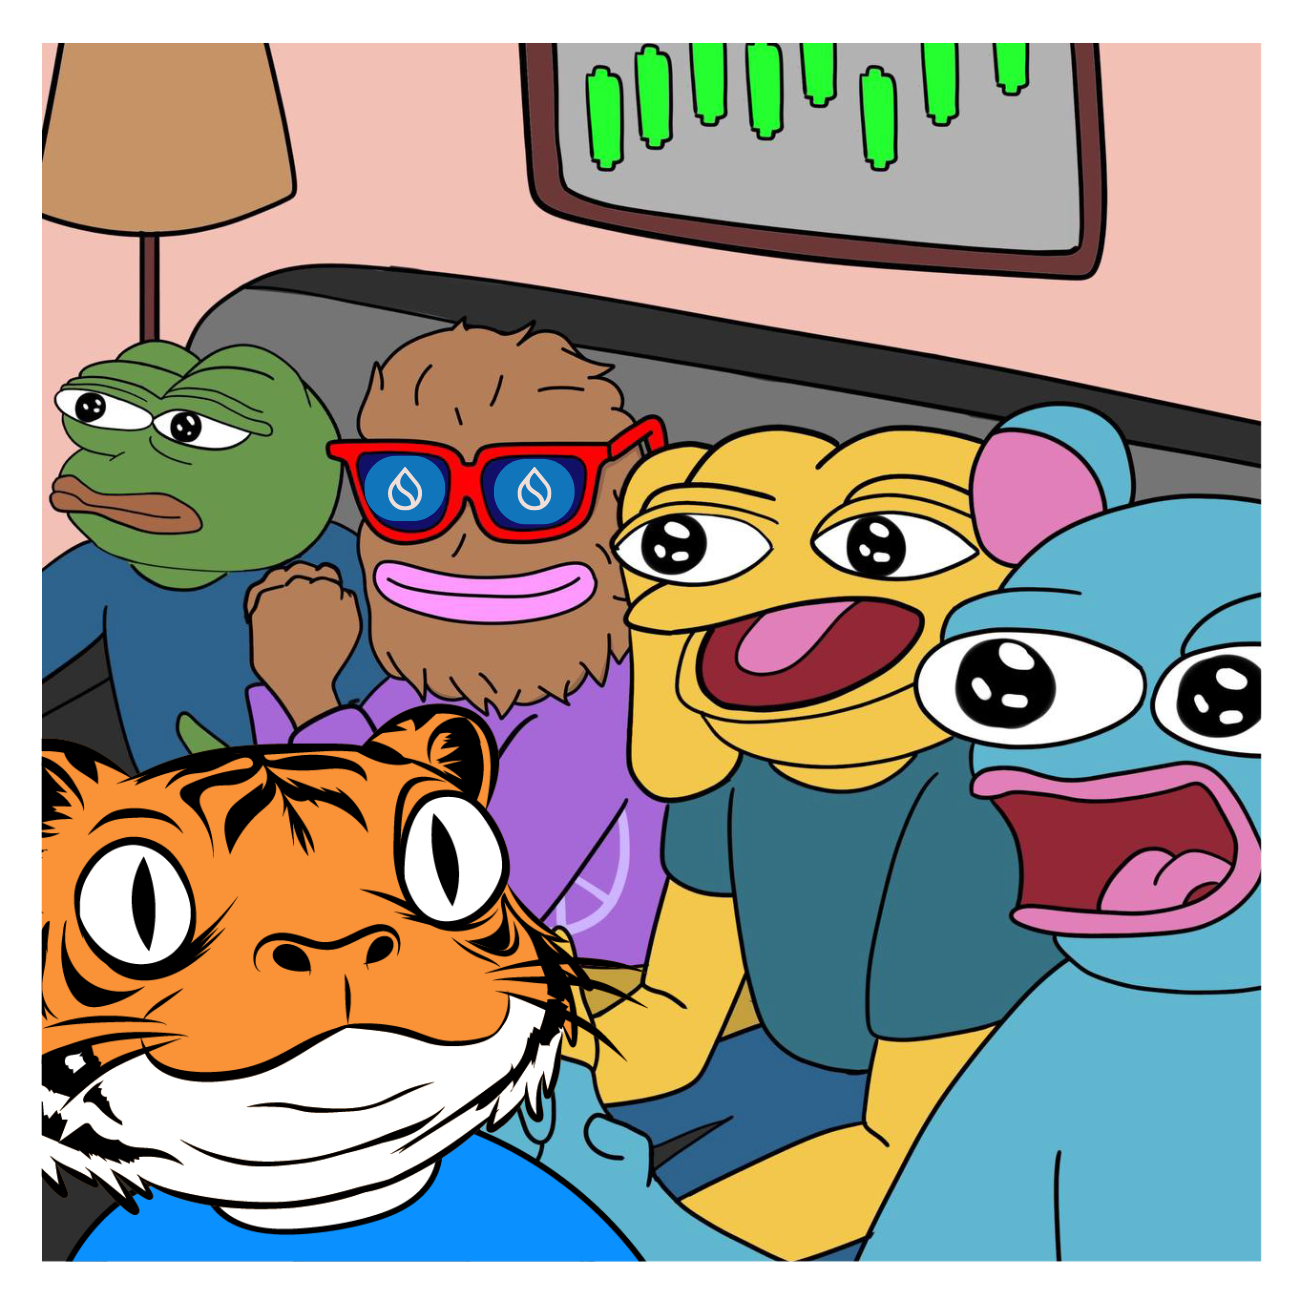
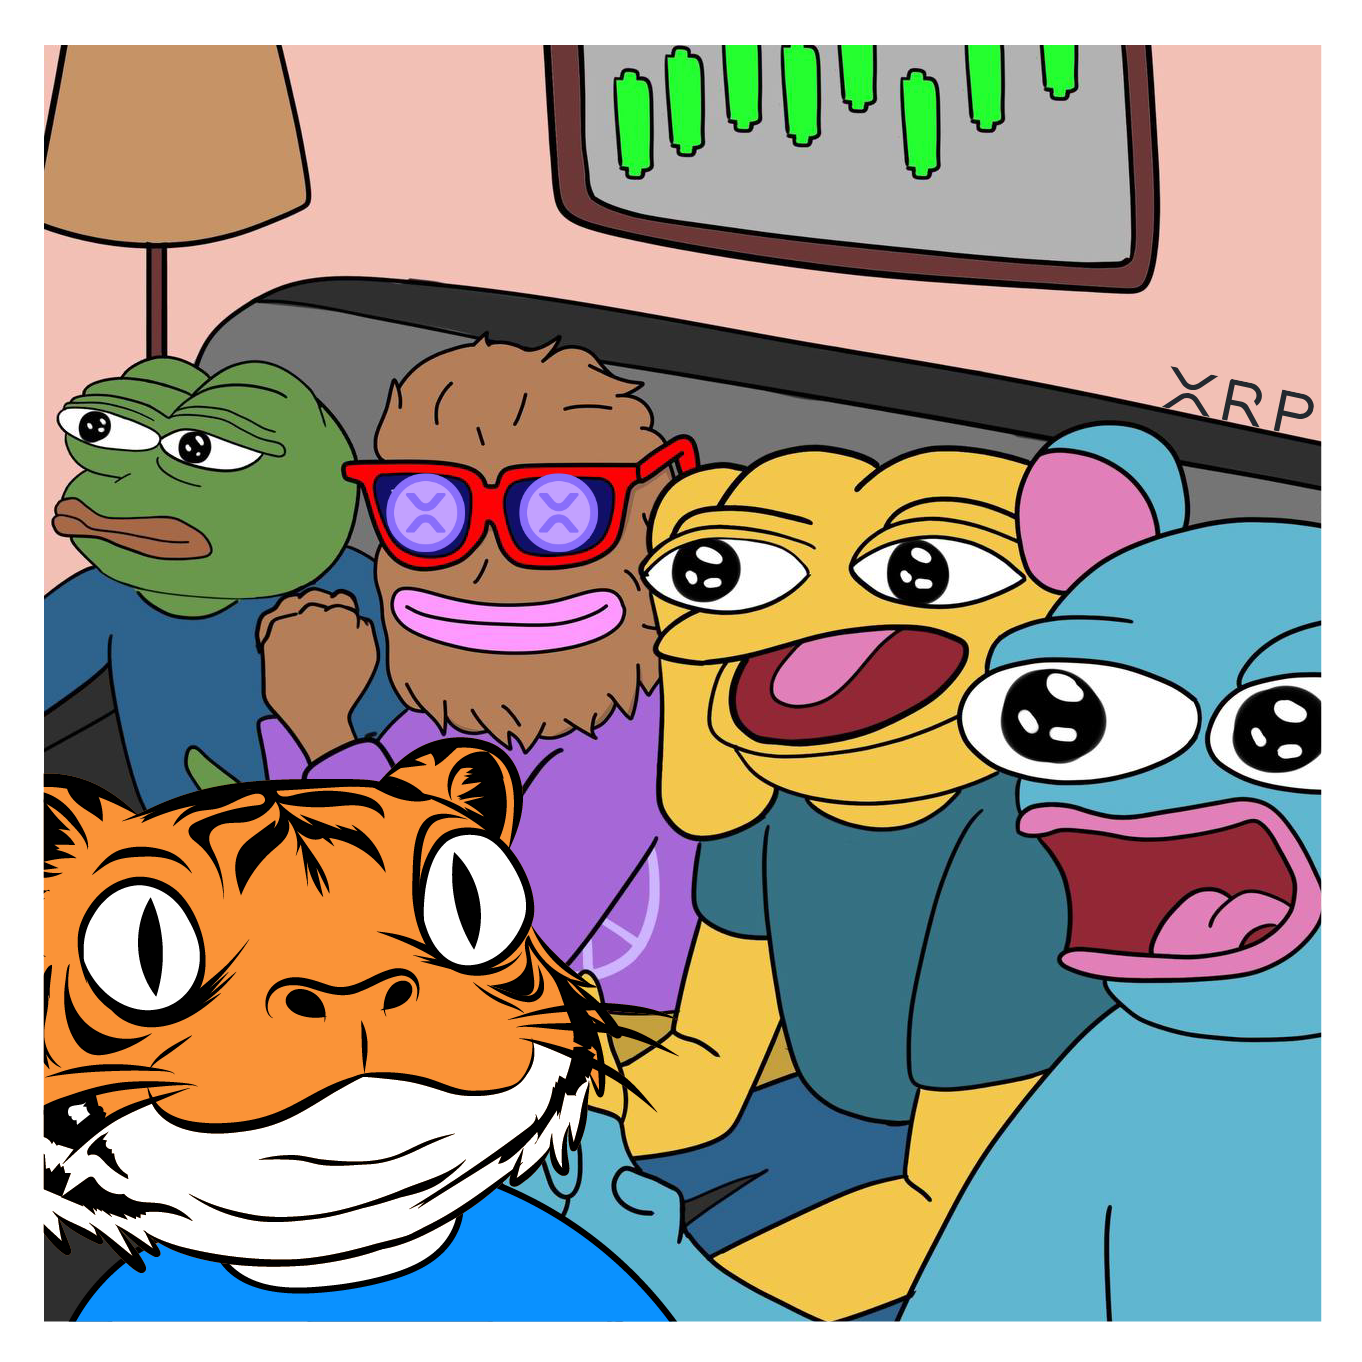
fix

Changed region(s): [[0.3692, 0.3385, 0.4615, 0.4308], [0.8615, 0.2769, 0.9846, 0.3077], [0.2769, 0.3385, 0.3385, 0.4]]

diff --git a/index.html b/index.html
@@ -3,14 +3,11 @@
 
 <head>
 	<meta charset="UTF-8">
-	<title>Igor the Tiger</title>
+	<title>Xigor the Tiger on Xrp</title>
 	<meta name="viewport" content="width=device-width, initial-scale=1">
 	<meta name="robots" content="max-image-preview:large">
-	<title>Igor the Tiger</title>
-	<link rel="alternate" type="application/rss+xml" title="Igor the Tiger &raquo; Feed"
-		href="https://igortiger.fun/index.php/feed/">
-	<link rel="alternate" type="application/rss+xml" title="Igor the Tiger &raquo; Comments Feed"
-		href="https://igortiger.fun/index.php/comments/feed/">
+
+
 	<script>
 		window._wpemojiSettings = { "baseUrl": "https:\/\/s.w.org\/images\/core\/emoji\/15.0.3\/72x72\/", "ext": ".png", "svgUrl": "https:\/\/s.w.org\/images\/core\/emoji\/15.0.3\/svg\/", "svgExt": ".svg", "source": { "concatemoji": "https:\/\/igortiger.fun\/wp-includes\/js\/wp-emoji-release.min.js?ver=6.6.2" } };
 		/*! This file is auto-generated */
@@ -1175,7 +1172,7 @@
 	<link rel="icon" href="images/cropped-IGOR-01-192x192.png" sizes="192x192">
 	<link rel="apple-touch-icon" href="images/cropped-IGOR-01-180x180.png">
 	<meta name="msapplication-TileImage"
-		content="https://igortiger.fun/wp-content/uploads/2024/10/cropped-IGOR-01-270x270.png">
+		content="https://igortiger.fun/wp-content/uploads/2024/10/cropped-XIGOR-01-270x270.png">
 	<meta name="viewport" content="width=device-width, initial-scale=1.0, viewport-fit=cover">
 </head>
 
@@ -1249,7 +1246,7 @@
 							<div class="elementor-widget-container">
 								<div class="elementor-button-wrapper">
 									<a class="elementor-button elementor-button-link elementor-size-sm"
-										href="https://movepump.com/token/0x900b867c3c4c17abe26957083a27d7bb67f0d5d5111f75c5c9647bef5c4db3eb::igor::IGOR">
+										href="https://firstledger.net/">
 										<span class="elementor-button-content-wrapper">
 											<span class="elementor-button-text">BUY</span>
 										</span>
@@ -1573,7 +1570,7 @@
 								<div class="elementor-social-icons-wrapper elementor-grid">
 									<span class="elementor-grid-item">
 										<a class="elementor-icon elementor-social-icon elementor-social-icon-x-twitter elementor-animation-float elementor-repeater-item-ea3614b"
-											href="https://x.com/IgorTiger_Sui" target="_blank">
+											href="https://x.com/XIGOR_XRPL" target="_blank">
 											<span class="elementor-screen-only">X-twitter</span>
 											<svg class="e-font-icon-svg e-fab-x-twitter" viewBox="0 0 512 512"
 												xmlns="http://www.w3.org/2000/svg">
@@ -1583,7 +1580,7 @@
 									</span>
 									<span class="elementor-grid-item">
 										<a class="elementor-icon elementor-social-icon elementor-social-icon-telegram-plane elementor-animation-float elementor-repeater-item-c9fb6c2"
-											href="https://t.me/IgorTiger_Portal" target="_blank">
+											href="https://t.me/XigorXRPL_Portal" target="_blank">
 											<span class="elementor-screen-only">Telegram-plane</span>
 											<svg class="e-font-icon-svg e-fab-telegram-plane" viewBox="0 0 448 512"
 												xmlns="http://www.w3.org/2000/svg">
@@ -1688,7 +1685,7 @@
 								data-id="fc3ea0c" data-element_type="widget" data-widget_type="heading.default">
 								<div class="elementor-widget-container">
 									<h2 class="elementor-heading-title elementor-size-default">
-										0x900b867c3c..5d5111f75c5c9647bef5c4db3eb::igor::IGOR
+										TBA
 									</h2>
 								</div>
 							</div>
@@ -1713,7 +1710,7 @@
 												</svg><span class="ctc-button-text">COPY</span> </button>
 										</div>
 										<textarea selection-target class="ctc-copy-content"
-											style="display: none;">CA : 0x900b867c3c4c17abe26957083a27d7bb67f0d5d5111f75c5c9647bef5c4db3eb::igor::IGOR</textarea>
+											style="display: none;">CA : TBA</textarea>
 									</div>
 								</div>
 							</div>
@@ -1800,7 +1797,7 @@
 						<div class="elementor-element elementor-element-ae8c3eb elementor-widget elementor-widget-heading"
 							data-id="ae8c3eb" data-element_type="widget" data-widget_type="heading.default">
 							<div class="elementor-widget-container">
-								<h2 class="elementor-heading-title elementor-size-default">Pepe and Igor were close
+								<h2 class="elementor-heading-title elementor-size-default">Pepe and Xigor were close
 									friends who always stuck together. However, when they embarked on their separate
 									journeys to pursue their dreams, they had to part ways. Despite the distance, they
 									promised to support each other and meet again in the future.</h2>
@@ -1849,7 +1846,7 @@
 							<div class="elementor-element elementor-element-738ad36 elementor-widget elementor-widget-heading"
 								data-id="738ad36" data-element_type="widget" data-widget_type="heading.default">
 								<div class="elementor-widget-container">
-									<h2 class="elementor-heading-title elementor-size-default">Pepe and Igor's Reunion
+									<h2 class="elementor-heading-title elementor-size-default">Pepe and Xigor's Reunion
 									</h2>
 								</div>
 							</div>
@@ -1857,7 +1854,7 @@
 								data-id="e50ac57" data-element_type="widget" data-widget_type="heading.default">
 								<div class="elementor-widget-container">
 									<h2 class="elementor-heading-title elementor-size-default">After so much time apart,
-										Pepe and Igor finally reunited. They had both followed their own paths,
+										Pepe and Xigor finally reunited. They had both followed their own paths,
 										overcoming challenges and reaching their dreams. As they stood face to face, a
 										brief silence fell, only to be broken by warm laughter. Memories of their past
 										flooded back, reminding them how strong their bond of friendship remained.
@@ -1939,7 +1936,7 @@
 								<div class="elementor-element elementor-element-a902e08 elementor-widget elementor-widget-heading"
 									data-id="a902e08" data-element_type="widget" data-widget_type="heading.default">
 									<div class="elementor-widget-container">
-										<h2 class="elementor-heading-title elementor-size-default">10 BILLION<br>SUPPLY
+										<h2 class="elementor-heading-title elementor-size-default">100M<br>SUPPLY
 										</h2>
 									</div>
 								</div>
@@ -1963,7 +1960,7 @@
 								<div class="elementor-element elementor-element-bfe5ba3 elementor-widget elementor-widget-heading"
 									data-id="bfe5ba3" data-element_type="widget" data-widget_type="heading.default">
 									<div class="elementor-widget-container">
-										<h2 class="elementor-heading-title elementor-size-default">$IGOR<br>TICKER</h2>
+										<h2 class="elementor-heading-title elementor-size-default">$XIGOR<br>TICKER</h2>
 									</div>
 								</div>
 							</div>
@@ -2133,8 +2130,8 @@
 								<div class="elementor-element elementor-element-0210efd elementor-widget elementor-widget-heading"
 									data-id="0210efd" data-element_type="widget" data-widget_type="heading.default">
 									<div class="elementor-widget-container">
-										<h2 class="elementor-heading-title elementor-size-default">Download and Set Up
-											Sui Wallet</h2>
+										<h2 class="elementor-heading-title elementor-size-default">Visit First Ledger
+											and create wallet</h2>
 									</div>
 								</div>
 							</div>
@@ -2144,13 +2141,13 @@
 								<div class="elementor-element elementor-element-a518521 elementor-widget elementor-widget-heading"
 									data-id="a518521" data-element_type="widget" data-widget_type="heading.default">
 									<div class="elementor-widget-container">
-										<h2 class="elementor-heading-title elementor-size-default">2. BUY SUI</h2>
+										<h2 class="elementor-heading-title elementor-size-default">2. BUY XRP</h2>
 									</div>
 								</div>
 								<div class="elementor-element elementor-element-9d6ac46 elementor-widget elementor-widget-heading"
 									data-id="9d6ac46" data-element_type="widget" data-widget_type="heading.default">
 									<div class="elementor-widget-container">
-										<h2 class="elementor-heading-title elementor-size-default">You can buy SUI from
+										<h2 class="elementor-heading-title elementor-size-default">You can buy XRP from
 											various cryptocurrency exchanges like Binance, Coinbase, or Kraken.</h2>
 									</div>
 								</div>
@@ -2161,7 +2158,8 @@
 								<div class="elementor-element elementor-element-1691ed2 elementor-widget elementor-widget-heading"
 									data-id="1691ed2" data-element_type="widget" data-widget_type="heading.default">
 									<div class="elementor-widget-container">
-										<h2 class="elementor-heading-title elementor-size-default">3. SWAP SUI FOR $IGOR
+										<h2 class="elementor-heading-title elementor-size-default">3. SWAP XRP FOR
+											$XIGOR
 										</h2>
 									</div>
 								</div>
@@ -2169,8 +2167,8 @@
 									data-id="6446ef5" data-element_type="widget" data-widget_type="heading.default">
 									<div class="elementor-widget-container">
 										<h2 class="elementor-heading-title elementor-size-default">Connect your wallet
-											to the DEX, select SUI as the currency you want to swap, and enter the
-											amount you wish to exchange for $IGOR.</h2>
+											and enter the
+											amount you wish to exchange for $XIGOR.</h2>
 									</div>
 								</div>
 							</div>
@@ -2189,9 +2187,9 @@
 							<div class="elementor-widget-container">
 								<div class="elementor-button-wrapper">
 									<a class="elementor-button elementor-button-link elementor-size-sm"
-										href="https://movepump.com/token/0x900b867c3c4c17abe26957083a27d7bb67f0d5d5111f75c5c9647bef5c4db3eb::igor::IGOR">
+										href="https://firstledger.net/">
 										<span class="elementor-button-content-wrapper">
-											<span class="elementor-button-text">BUY $IGOR NOW</span>
+											<span class="elementor-button-text">BUY $XIGOR NOW</span>
 										</span>
 									</a>
 								</div>
@@ -2217,14 +2215,15 @@
 					<div class="elementor-element elementor-element-3b3205c elementor-widget elementor-widget-heading"
 						data-id="3b3205c" data-element_type="widget" data-widget_type="heading.default">
 						<div class="elementor-widget-container">
-							<h2 class="elementor-heading-title elementor-size-default">JOIN IGOR COMMUNITY</h2>
+							<h2 class="elementor-heading-title elementor-size-default">JOIN XIGOR COMMUNITY</h2>
 						</div>
 					</div>
 					<div class="elementor-element elementor-element-418d74d elementor-widget elementor-widget-heading"
 						data-id="418d74d" data-element_type="widget" data-widget_type="heading.default">
 						<div class="elementor-widget-container">
-							<h2 class="elementor-heading-title elementor-size-default">Become a part of the growing Igor
-								community and<br>connect with fellow $IGOR holders, enthusiasts, and supporters <br>
+							<h2 class="elementor-heading-title elementor-size-default">Become a part of the growing
+								Xigor
+								community and<br>connect with fellow $XIGOR holders, enthusiasts, and supporters <br>
 								Contact: astubegratis@gmail.com
 							</h2>
 						</div>
@@ -2234,7 +2233,7 @@
 						<div class="elementor-widget-container">
 							<div class="elementor-social-icons-wrapper elementor-grid">
 								<span class="elementor-grid-item">
-									<a href="https://x.com/IgorTiger_Sui"
+									<a href="https://x.com/XIGOR_XRPL"
 										class="elementor-icon elementor-social-icon elementor-social-icon-x-twitter elementor-animation-float elementor-repeater-item-ea3614b"
 										target="_blank">
 										<span class="elementor-screen-only">X-twitter</span>
@@ -2245,7 +2244,7 @@
 										</svg> </a>
 								</span>
 								<span class="elementor-grid-item">
-									<a href="https://t.me/IgorTiger_Portal"
+									<a href="https://t.me/XigorXRPL_Portal"
 										class="elementor-icon elementor-social-icon elementor-social-icon-telegram-plane elementor-animation-float elementor-repeater-item-c9fb6c2"
 										target="_blank">
 										<span class="elementor-screen-only">Telegram-plane</span>
@@ -2276,7 +2275,7 @@
 				<div class="elementor-element elementor-element-5820d01 elementor-widget elementor-widget-heading"
 					data-id="5820d01" data-element_type="widget" data-widget_type="heading.default">
 					<div class="elementor-widget-container">
-						<h2 class="elementor-heading-title elementor-size-default">© 2024 Igor The Tiger. All Rights
+						<h2 class="elementor-heading-title elementor-size-default">© 2024 Xigor The Tiger. All Rights
 							Reserved.</h2>
 					</div>
 				</div>
@@ -2389,7 +2388,7 @@
 	<script src="js/waypoints.min.js" id="elementor-waypoints-js"></script>
 	<script src="js/core.min.js" id="jquery-ui-core-js"></script>
 	<script id="elementor-frontend-js-before">
-		var elementorFrontendConfig = { "environmentMode": { "edit": false, "wpPreview": false, "isScriptDebug": false }, "i18n": { "shareOnFacebook": "Share on Facebook", "shareOnTwitter": "Share on Twitter", "pinIt": "Pin it", "download": "Download", "downloadImage": "Download image", "fullscreen": "Fullscreen", "zoom": "Zoom", "share": "Share", "playVideo": "Play Video", "previous": "Previous", "next": "Next", "close": "Close", "a11yCarouselWrapperAriaLabel": "Carousel | Horizontal scrolling: Arrow Left & Right", "a11yCarouselPrevSlideMessage": "Previous slide", "a11yCarouselNextSlideMessage": "Next slide", "a11yCarouselFirstSlideMessage": "This is the first slide", "a11yCarouselLastSlideMessage": "This is the last slide", "a11yCarouselPaginationBulletMessage": "Go to slide" }, "is_rtl": false, "breakpoints": { "xs": 0, "sm": 480, "md": 768, "lg": 1025, "xl": 1440, "xxl": 1600 }, "responsive": { "breakpoints": { "mobile": { "label": "Mobile Portrait", "value": 767, "default_value": 767, "direction": "max", "is_enabled": true }, "mobile_extra": { "label": "Mobile Landscape", "value": 880, "default_value": 880, "direction": "max", "is_enabled": false }, "tablet": { "label": "Tablet Portrait", "value": 1024, "default_value": 1024, "direction": "max", "is_enabled": true }, "tablet_extra": { "label": "Tablet Landscape", "value": 1200, "default_value": 1200, "direction": "max", "is_enabled": false }, "laptop": { "label": "Laptop", "value": 1366, "default_value": 1366, "direction": "max", "is_enabled": false }, "widescreen": { "label": "Widescreen", "value": 2400, "default_value": 2400, "direction": "min", "is_enabled": false } } }, "version": "3.23.4", "is_static": false, "experimentalFeatures": { "e_optimized_css_loading": true, "e_font_icon_svg": true, "additional_custom_breakpoints": true, "container": true, "container_grid": true, "e_swiper_latest": true, "e_nested_atomic_repeaters": true, "e_optimized_control_loading": true, "e_onboarding": true, "theme_builder_v2": true, "home_screen": true, "editor_v2": true, "ai-layout": true, "e_lazyload": true, "e_element_cache": true, "link-in-bio": true, "floating-buttons": true, "display-conditions": true, "form-submissions": true, "taxonomy-filter": true, "search": true }, "urls": { "assets": "https:\/\/igortiger.fun\/wp-content\/plugins\/elementor\/assets\/", "ajaxurl": "https:\/\/igortiger.fun\/wp-admin\/admin-ajax.php" }, "nonces": { "floatingButtonsClickTracking": "996eb4efe0" }, "swiperClass": "swiper", "settings": { "page": [], "editorPreferences": [] }, "kit": { "active_breakpoints": ["viewport_mobile", "viewport_tablet"], "global_image_lightbox": "yes", "lightbox_enable_counter": "yes", "lightbox_enable_fullscreen": "yes", "lightbox_enable_zoom": "yes", "lightbox_enable_share": "yes", "lightbox_title_src": "title", "lightbox_description_src": "description" }, "post": { "id": 8, "title": "Igor%20the%20Tiger", "excerpt": "", "featuredImage": false } };
+		var elementorFrontendConfig = { "environmentMode": { "edit": false, "wpPreview": false, "isScriptDebug": false }, "i18n": { "shareOnFacebook": "Share on Facebook", "shareOnTwitter": "Share on Twitter", "pinIt": "Pin it", "download": "Download", "downloadImage": "Download image", "fullscreen": "Fullscreen", "zoom": "Zoom", "share": "Share", "playVideo": "Play Video", "previous": "Previous", "next": "Next", "close": "Close", "a11yCarouselWrapperAriaLabel": "Carousel | Horizontal scrolling: Arrow Left & Right", "a11yCarouselPrevSlideMessage": "Previous slide", "a11yCarouselNextSlideMessage": "Next slide", "a11yCarouselFirstSlideMessage": "This is the first slide", "a11yCarouselLastSlideMessage": "This is the last slide", "a11yCarouselPaginationBulletMessage": "Go to slide" }, "is_rtl": false, "breakpoints": { "xs": 0, "sm": 480, "md": 768, "lg": 1025, "xl": 1440, "xxl": 1600 }, "responsive": { "breakpoints": { "mobile": { "label": "Mobile Portrait", "value": 767, "default_value": 767, "direction": "max", "is_enabled": true }, "mobile_extra": { "label": "Mobile Landscape", "value": 880, "default_value": 880, "direction": "max", "is_enabled": false }, "tablet": { "label": "Tablet Portrait", "value": 1024, "default_value": 1024, "direction": "max", "is_enabled": true }, "tablet_extra": { "label": "Tablet Landscape", "value": 1200, "default_value": 1200, "direction": "max", "is_enabled": false }, "laptop": { "label": "Laptop", "value": 1366, "default_value": 1366, "direction": "max", "is_enabled": false }, "widescreen": { "label": "Widescreen", "value": 2400, "default_value": 2400, "direction": "min", "is_enabled": false } } }, "version": "3.23.4", "is_static": false, "experimentalFeatures": { "e_optimized_css_loading": true, "e_font_icon_svg": true, "additional_custom_breakpoints": true, "container": true, "container_grid": true, "e_swiper_latest": true, "e_nested_atomic_repeaters": true, "e_optimized_control_loading": true, "e_onboarding": true, "theme_builder_v2": true, "home_screen": true, "editor_v2": true, "ai-layout": true, "e_lazyload": true, "e_element_cache": true, "link-in-bio": true, "floating-buttons": true, "display-conditions": true, "form-submissions": true, "taxonomy-filter": true, "search": true }, "urls": { "assets": "https:\/\/igortiger.fun\/wp-content\/plugins\/elementor\/assets\/", "ajaxurl": "https:\/\/igortiger.fun\/wp-admin\/admin-ajax.php" }, "nonces": { "floatingButtonsClickTracking": "996eb4efe0" }, "swiperClass": "swiper", "settings": { "page": [], "editorPreferences": [] }, "kit": { "active_breakpoints": ["viewport_mobile", "viewport_tablet"], "global_image_lightbox": "yes", "lightbox_enable_counter": "yes", "lightbox_enable_fullscreen": "yes", "lightbox_enable_zoom": "yes", "lightbox_enable_share": "yes", "lightbox_title_src": "title", "lightbox_description_src": "description" }, "post": { "id": 8, "title": "Xigor%20the%20Tiger", "excerpt": "", "featuredImage": false } };
 	</script>
 	<script src="js/frontend.min_1.js" id="elementor-frontend-js"></script>
 	<script src="js/elements-handlers.min.js" id="pro-elements-handlers-js"></script>
